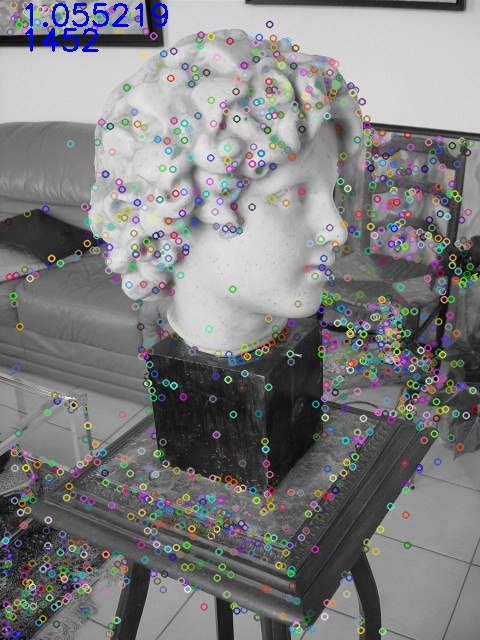
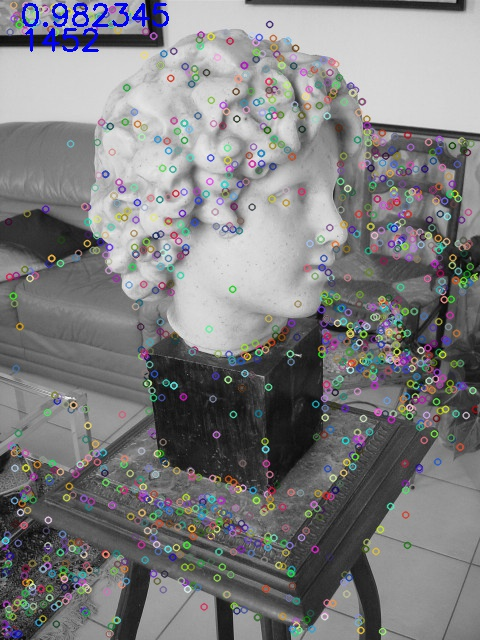
variable name change so they can be better identified

Changed region(s): [[0.0312, 0.0, 0.375, 0.0625]]

diff --git a/Assignment_3_Leo_Rodger/assignment3.cpp b/Assignment_3_Leo_Rodger/assignment3.cpp
@@ -19,7 +19,7 @@ int main(int argc, char** argv)
 	cv::Ptr<cv::Feature2D> f2d = cv::xfeatures2d::SIFT::create();
 
 	//start time
-	double sift_t = (double)cv::getTickCount();
+	double sift_time = (double)cv::getTickCount();
 
 	//Create vector and Detect the keypoints
 	std::vector<cv::KeyPoint> keypoints_SIFT;
@@ -29,22 +29,22 @@ int main(int argc, char** argv)
 	drawKeypoints(img_1, keypoints_SIFT, img_1);
 
 	// Get time taken
-	sift_t = ((double)cv::getTickCount() - sift_t) / cv::getTickFrequency();
+	sift_time = ((double)cv::getTickCount() - sift_time) / cv::getTickFrequency();
 
 	//Output time and number of key points to console		
-	std::cout << "SURF Feature Detection time taken: " << sift_t << std::endl;
+	std::cout << "SURF Feature Detection time taken: " << sift_time << std::endl;
 	std::cout << ("keypoint number:") << keypoints_SIFT.size() << std::endl;
 
 	//  Image position of results
-	cv::Point text_position1, text_position2;
-	text_position1.x = 20;
-	text_position1.y = 25;
-	text_position2.x = 20;
-	text_position2.y = 50;
+	cv::Point text_position_time, text_position_keypoints;
+	text_position_time.x = 20;
+	text_position_time.y = 25;
+	text_position_keypoints.x = 20;
+	text_position_keypoints.y = 50;
 
 	putText(img_1,                //InputOutputArray
-		   std::to_string(sift_t),  //convert time to string
-		   text_position1,          //Point org
+		   std::to_string(sift_time),  //convert time to string
+		   text_position_time,          //Point org
 		   CV_FONT_HERSHEY_SIMPLEX, //fontFace
 		   1,                       //fontScale
 		   cv::Scalar(255, 0, 0),   //color 
@@ -53,7 +53,7 @@ int main(int argc, char** argv)
 
 	putText(img_1,                              //InputOutputArray
 		   std::to_string(keypoints_SIFT.size()), //convert time to string
-		   text_position2,                        //Point org
+		   text_position_keypoints,                        //Point org
 		   CV_FONT_HERSHEY_SIMPLEX,               //fontFace
 		   1,                                     //fontScale
 		   cv::Scalar(255, 0, 0),                 //color 
@@ -90,7 +90,7 @@ int main(int argc, char** argv)
 	// drawing the results
 	putText(img_1,             //InputOutputArray
 		std::to_string(ORB_t),   //convert time to string
-		text_position1,          //Point org
+		text_position_time,          //Point org
 		CV_FONT_HERSHEY_SIMPLEX, //fontFace
 		1,                       //fontScale
 		cv::Scalar(255, 0, 0),   //color 
@@ -99,7 +99,7 @@ int main(int argc, char** argv)
 
 	putText(img_1,                          //InputOutputArray
 		std::to_string(keypoints_orb.size()), //convert time to string
-		text_position2,                       //Point org
+		text_position_keypoints,                       //Point org
 		CV_FONT_HERSHEY_SIMPLEX,              //fontFace
 		1,                                    //fontScale
 		cv::Scalar(255, 0, 0),                //color 
